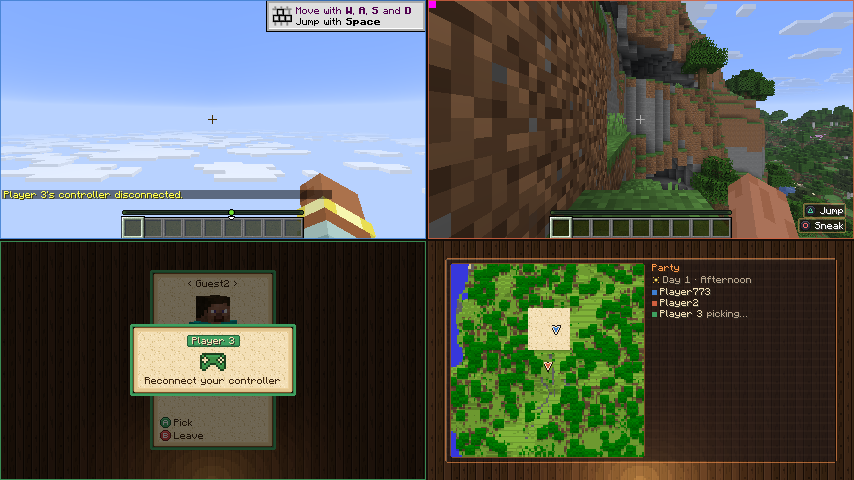
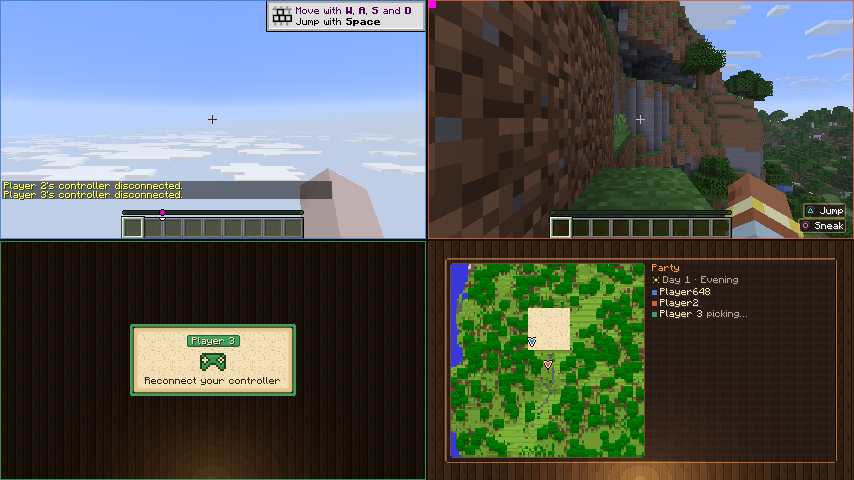
fix: reconnect card covers a picking seat's picker

diff --git a/fabric/src/client/java/dev/hearthside/fabric/client/host/ViewOverlay.java b/fabric/src/client/java/dev/hearthside/fabric/client/host/ViewOverlay.java
@@ -219,7 +219,10 @@ final class ViewOverlay implements OverlayLayer {
 			g.blitSprite(RenderPipelines.GUI_TEXTURED, HearthSprites.GLASS_PANEL, r.x(), r.y(), r.width(), r.height(), FROST);
 		}
 		SeatCard card = party.drawnCard(seat);
-		if (card != null) {
+		if (card != null && party.reconnect(seat) != null) {
+			// Their controller is away: only the plank wall under the reconnect card; the picker comes back as it was.
+			CardPainter.board(g, r, 1f);
+		} else if (card != null) {
 			// Dropping in: they pick their profile right here, while everyone else plays on.
 			drawPicker(g, font, r, seat, card);
 		} else if (cover > 0f) {
